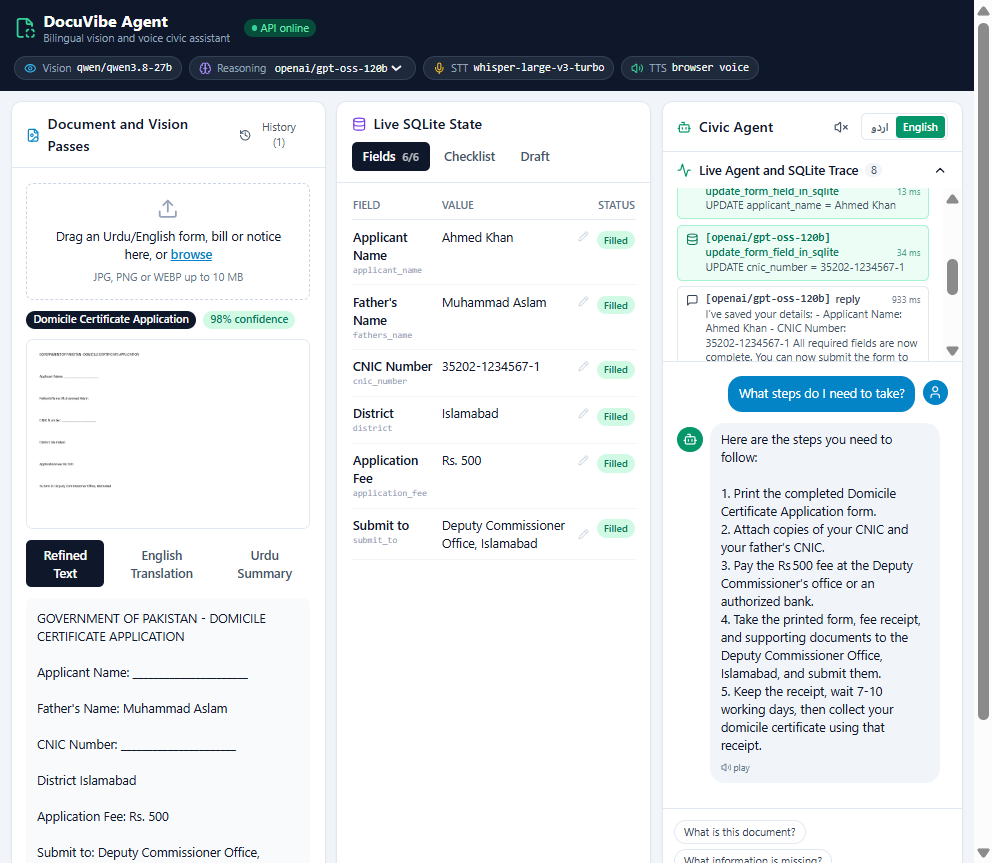
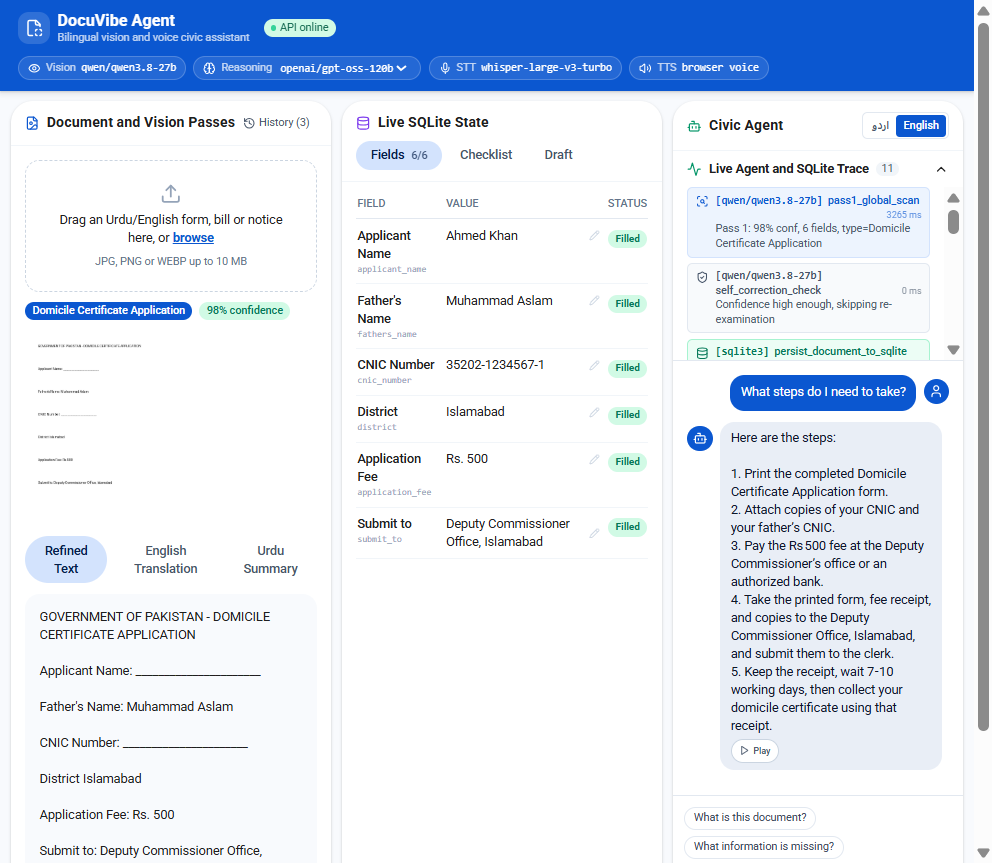
Material Design 3 theme: Roboto, primary app bar, elevated cards, pill tabs

diff --git a/frontend/src/components/DocumentViewer.tsx b/frontend/src/components/DocumentViewer.tsx
@@ -68,7 +68,7 @@ export default function DocumentViewer({ document, history, uploading, error, on
     <section className="panel overflow-hidden" aria-label="Document viewer">
       <div className="flex items-center justify-between border-b border-slate-200 px-4 py-3">
         <h2 className="flex items-center gap-2 font-semibold">
-          <FileImage className="h-4 w-4 text-sky-600" aria-hidden /> Document and Vision Passes
+          <FileImage className="h-4 w-4 text-primary" aria-hidden /> Document and Vision Passes
         </h2>
         <button
           type="button"
@@ -93,7 +93,7 @@ export default function DocumentViewer({ document, history, uploading, error, on
                     setShowHistory(false);
                   }}
                   className={`flex w-full items-center justify-between px-3 py-2 text-left hover:bg-slate-50 ${
-                    document?.id === h.id ? "bg-sky-50" : ""
+                    document?.id === h.id ? "bg-primary-container/40" : ""
                   }`}
                 >
                   <span className="truncate">
@@ -117,13 +117,13 @@ export default function DocumentViewer({ document, history, uploading, error, on
             setDragOver(false);
             if (!uploading) handleFiles(e.dataTransfer.files);
           }}
-          className={`flex flex-col items-center justify-center gap-2 rounded-lg border-2 border-dashed p-4 text-center transition ${
-            dragOver ? "border-sky-500 bg-sky-50" : "border-slate-300"
+          className={`flex flex-col items-center justify-center gap-2 rounded-2xl border-2 border-dashed p-6 text-center transition ${
+            dragOver ? "border-primary bg-primary-container/40" : "border-slate-300"
           }`}
         >
           {uploading ? (
             <>
-              <Loader2 className="h-6 w-6 animate-spin text-sky-600" aria-hidden />
+              <Loader2 className="h-6 w-6 animate-spin text-primary" aria-hidden />
               <p className="text-sm font-medium">Running multi-pass vision agent...</p>
               <p className="text-xs text-slate-500">Global scan, crop and re-examine, script repair, SQLite save</p>
             </>
@@ -132,7 +132,7 @@ export default function DocumentViewer({ document, history, uploading, error, on
               <Upload className="h-6 w-6 text-slate-400" aria-hidden />
               <p className="text-sm">
                 Drag an Urdu/English form, bill or notice here, or{" "}
-                <button type="button" onClick={() => inputRef.current?.click()} className="font-semibold text-sky-600 underline">
+                <button type="button" onClick={() => inputRef.current?.click()} className="font-semibold text-primary underline">
                   browse
                 </button>
               </p>
@@ -159,7 +159,7 @@ export default function DocumentViewer({ document, history, uploading, error, on
                 type="button"
                 disabled={uploading}
                 onClick={() => loadSample(s.src)}
-                className="inline-flex items-center gap-1 rounded-full border border-sky-200 bg-sky-50 px-3 py-1 text-xs font-medium text-sky-700 hover:bg-sky-100 disabled:opacity-50"
+                className="inline-flex items-center gap-1 rounded-full border border-primary-container bg-primary-container/40 px-3 py-1 text-xs font-medium text-primary hover:bg-primary-container disabled:opacity-50"
               >
                 <Sparkles className="h-3 w-3" /> {s.label}
               </button>
@@ -176,7 +176,7 @@ export default function DocumentViewer({ document, history, uploading, error, on
         {document ? (
           <>
             <div className="flex flex-wrap items-center gap-2 text-xs">
-              <span className="rounded-full bg-slate-900 px-2 py-0.5 font-medium text-white">{document.doc_type || "Document"}</span>
+              <span className="rounded-full bg-primary px-2 py-0.5 font-medium text-white">{document.doc_type || "Document"}</span>
               <span
                 className={`rounded-full px-2 py-0.5 font-medium ${
                   document.confidence_score >= 0.85
@@ -191,7 +191,7 @@ export default function DocumentViewer({ document, history, uploading, error, on
               {bbox && <span className="rounded-full bg-fuchsia-100 px-2 py-0.5 text-fuchsia-700">Pass 2 region [{bbox.join(", ")}]</span>}
             </div>
 
-            <div className="relative overflow-hidden rounded-lg border border-slate-200 bg-slate-50">
+            <div className="relative overflow-hidden rounded-2xl bg-surface-variant">
               {/* eslint-disable-next-line @next/next/no-img-element */}
               <img src={imageUrl(document.image_path)} alt={document.filename} className="block h-auto w-full" />
               {bbox && (
@@ -230,7 +230,7 @@ export default function DocumentViewer({ document, history, uploading, error, on
             </div>
             <div
               dir="auto"
-              className={`whitespace-pre-wrap rounded-lg bg-slate-50 p-3 text-sm ${isUrduScript ? "urdu text-base" : ""}`}
+              className={`whitespace-pre-wrap rounded-2xl bg-surface p-4 text-sm ${isUrduScript ? "urdu text-base" : ""}`}
             >
               {activeText || <span className="text-slate-400">Nothing extracted for this view.</span>}
             </div>

diff --git a/frontend/src/components/VoiceAgentChat.tsx b/frontend/src/components/VoiceAgentChat.tsx
@@ -101,7 +101,7 @@ export default function VoiceAgentChat({ hasDocument, messages, logs, language, 
                 role="radio"
                 aria-checked={language === l}
                 onClick={() => onLanguageChange(l)}
-                className={`rounded px-2 py-1 font-medium ${language === l ? "bg-emerald-600 text-white" : "text-slate-600 hover:bg-slate-100"}`}
+                className={`rounded px-2 py-1 font-medium ${language === l ? "bg-primary text-white" : "text-slate-600 hover:bg-slate-100"}`}
               >
                 {l === "ur" ? "اردو" : "English"}
               </button>
@@ -122,14 +122,14 @@ export default function VoiceAgentChat({ hasDocument, messages, logs, language, 
           const isUrdu = m.language === "ur";
           return (
             <div key={m.id} className={`flex gap-2 ${isUser ? "flex-row-reverse" : ""}`}>
-              <div className={`mt-1 flex h-7 w-7 shrink-0 items-center justify-center rounded-full ${isUser ? "bg-sky-600" : "bg-emerald-600"} text-white`}>
+              <div className={`mt-1 flex h-7 w-7 shrink-0 items-center justify-center rounded-full ${isUser ? "bg-primary" : "bg-primary"} text-white`}>
                 {isUser ? <User className="h-4 w-4" /> : <Bot className="h-4 w-4" />}
               </div>
-              <div className={`max-w-[85%] rounded-2xl px-3 py-2 text-sm ${isUser ? "bg-sky-600 text-white" : "bg-slate-100 text-slate-900"}`}>
+              <div className={`max-w-[85%] rounded-2xl px-3 py-2 text-sm ${isUser ? "bg-primary text-white" : "bg-surface-variant text-slate-900"}`}>
                 <p dir={isUrdu ? "rtl" : "ltr"} className={`whitespace-pre-wrap break-words ${isUrdu ? "font-urdu text-base leading-[2.1]" : ""}`}>
                   {m.content}
                 </p>
-                <div className={`mt-1 flex items-center gap-2 text-[10px] ${isUser ? "text-sky-100" : "text-slate-500"}`}>
+                <div className={`mt-1 flex items-center gap-2 text-[10px] ${isUser ? "text-white/80" : "text-slate-500"}`}>
                   {m.viaVoice && (
                     <span className="inline-flex items-center gap-0.5">
                       <Mic className="h-3 w-3" /> voice
@@ -202,7 +202,7 @@ export default function VoiceAgentChat({ hasDocument, messages, logs, language, 
               if (e.key === " " || e.key === "Enter") recorder.onPressEnd();
             }}
             className={`relative flex h-14 w-14 shrink-0 select-none items-center justify-center rounded-full text-white shadow-md transition disabled:cursor-not-allowed disabled:opacity-40 ${
-              recorder.isRecording ? "scale-110 bg-red-600" : "bg-emerald-600 hover:bg-emerald-700"
+              recorder.isRecording ? "scale-110 bg-red-600" : "bg-primary hover:bg-primary-dark"
             }`}
             aria-label={recorder.isRecording ? "Recording, release to send" : "Hold to talk"}
             title={recorder.isSupported ? "Hold to talk" : "Voice input not supported in this browser"}
@@ -230,13 +230,13 @@ export default function VoiceAgentChat({ hasDocument, messages, logs, language, 
               disabled={disabled}
               dir="auto"
               placeholder={recorder.isRecording ? "Listening..." : language === "ur" ? "اپنا پیغام لکھیں..." : "Type a message or hold the mic"}
-              className={`min-w-0 flex-1 rounded-full border border-slate-300 px-4 py-2.5 text-sm focus:border-emerald-500 focus:outline-none disabled:bg-slate-50 ${language === "ur" ? "font-urdu" : ""}`}
+              className={`min-w-0 flex-1 rounded-full border border-slate-300 px-4 py-2.5 text-sm focus:border-primary focus:ring-2 focus:ring-primary/20 focus:outline-none disabled:bg-slate-50 ${language === "ur" ? "font-urdu" : ""}`}
               aria-label="Message"
             />
             <button
               type="submit"
               disabled={disabled || !input.trim()}
-              className="flex h-10 w-10 shrink-0 items-center justify-center rounded-full bg-slate-900 text-white hover:bg-slate-800 disabled:opacity-40"
+              className="flex h-10 w-10 shrink-0 items-center justify-center rounded-full bg-primary text-white hover:bg-primary-dark disabled:opacity-40"
               aria-label="Send message"
             >
               <Send className="h-4 w-4" />

diff --git a/frontend/src/components/TopBar.tsx b/frontend/src/components/TopBar.tsx
@@ -1,4 +1,4 @@
-"use client";
+"use client";
 
 import { Brain, Eye, FileScan, Mic, Volume2 } from "lucide-react";
 
@@ -13,30 +13,32 @@ interface Props {
 
 function Badge({ icon, label, value }: { icon: React.ReactNode; label: string; value: string }) {
   return (
-    <span className="inline-flex items-center gap-1.5 rounded-full border border-slate-700 bg-slate-800 px-2.5 py-1 text-xs">
+    <span className="inline-flex items-center gap-1.5 rounded-full border border-white/20 bg-white/10 px-2.5 py-1 text-xs">
       {icon}
-      <span className="text-slate-400">{label}</span>
-      <span className="font-mono text-slate-100">{value}</span>
+      <span className="text-white/75">{label}</span>
+      <span className="font-mono text-white">{value}</span>
     </span>
   );
 }
 
 export default function TopBar({ visionModel, sttModel, reasoningModels, selectedModel, onModelChange, backendOnline }: Props) {
   return (
-    <header className="flex flex-wrap items-center justify-between gap-3 bg-slate-900 px-4 py-3 text-white">
+    <header className="sticky top-0 z-10 flex flex-wrap items-center justify-between gap-3 bg-primary px-5 py-3 text-white shadow-md2">
       <div className="flex items-center gap-2">
-        <FileScan className="h-6 w-6 text-emerald-400" aria-hidden />
+        <span className="flex h-9 w-9 items-center justify-center rounded-xl bg-white/15">
+          <FileScan className="h-5 w-5 text-white" aria-hidden />
+        </span>
         <div>
           <h1 className="text-lg font-bold leading-tight">DocuVibe Agent</h1>
-          <p className="text-xs text-slate-400">Bilingual vision and voice civic assistant</p>
+          <p className="text-xs text-white/75">Bilingual vision and voice civic assistant</p>
         </div>
         <span
           className={`ml-2 inline-flex items-center gap-1 rounded-full px-2 py-0.5 text-xs ${
             backendOnline === null
-              ? "bg-slate-700 text-slate-300"
+              ? "bg-white/15 text-white"
               : backendOnline
-                ? "bg-emerald-900 text-emerald-300"
-                : "bg-red-900 text-red-300"
+                ? "bg-emerald-100 text-emerald-800"
+                : "bg-red-100 text-red-800"
           }`}
         >
           <span
@@ -49,25 +51,25 @@ export default function TopBar({ visionModel, sttModel, reasoningModels, selecte
       </div>
 
       <div className="flex flex-wrap items-center gap-2">
-        <Badge icon={<Eye className="h-3.5 w-3.5 text-sky-400" />} label="Vision" value={visionModel} />
-        <label className="inline-flex items-center gap-1.5 rounded-full border border-slate-700 bg-slate-800 px-2.5 py-1 text-xs">
-          <Brain className="h-3.5 w-3.5 text-violet-400" aria-hidden />
-          <span className="text-slate-400">Reasoning</span>
+        <Badge icon={<Eye className="h-3.5 w-3.5 text-white" />} label="Vision" value={visionModel} />
+        <label className="inline-flex items-center gap-1.5 rounded-full border border-white/20 bg-white/10 px-2.5 py-1 text-xs">
+          <Brain className="h-3.5 w-3.5 text-white" aria-hidden />
+          <span className="text-white/75">Reasoning</span>
           <select
             value={selectedModel}
             onChange={(e) => onModelChange(e.target.value)}
-            className="cursor-pointer bg-transparent font-mono text-slate-100 outline-none"
+            className="cursor-pointer bg-transparent font-mono text-white outline-none"
             aria-label="Reasoning model"
           >
             {reasoningModels.map((m) => (
-              <option key={m} value={m} className="bg-slate-800">
+              <option key={m} value={m} className="bg-white text-slate-900">
                 {m}
               </option>
             ))}
           </select>
         </label>
-        <Badge icon={<Mic className="h-3.5 w-3.5 text-amber-400" />} label="STT" value={sttModel} />
-        <Badge icon={<Volume2 className="h-3.5 w-3.5 text-emerald-400" />} label="TTS" value="browser voice" />
+        <Badge icon={<Mic className="h-3.5 w-3.5 text-white" />} label="STT" value={sttModel} />
+        <Badge icon={<Volume2 className="h-3.5 w-3.5 text-white" />} label="TTS" value="browser voice" />
       </div>
     </header>
   );

diff --git a/frontend/src/components/SqliteStatePanel.tsx b/frontend/src/components/SqliteStatePanel.tsx
@@ -52,7 +52,7 @@ function FieldRow({ field, highlight, onSave }: { field: Field; highlight: boole
                 if (e.key === "Enter") save();
                 if (e.key === "Escape") setEditing(false);
               }}
-              className="w-full rounded border border-slate-300 px-2 py-1 text-sm focus:border-sky-500 focus:outline-none"
+              className="w-full rounded border border-slate-300 px-2 py-1 text-sm focus:border-primary focus:outline-none"
               aria-label={`Value for ${field.field_label}`}
             />
             <button type="button" onClick={save} disabled={saving} className="rounded p-1 text-emerald-600 hover:bg-emerald-50" aria-label="Save">
@@ -170,7 +170,7 @@ export default function SqliteStatePanel({ hasDocument, fields, actionItems, dra
                       type="checkbox"
                       checked={item.is_completed}
                       onChange={(e) => onToggleAction(item.id, e.target.checked)}
-                      className="mt-0.5 h-4 w-4 accent-emerald-600"
+                      className="mt-0.5 h-4 w-4 accent-[#0B57D0]"
                     />
                     <span dir="auto" className={`text-sm ${item.is_completed ? "text-slate-400 line-through" : ""}`}>
                       <span className="mr-1 font-semibold">{item.step_number}.</span>
@@ -188,7 +188,7 @@ export default function SqliteStatePanel({ hasDocument, fields, actionItems, dra
               <button
                 type="button"
                 onClick={() => window.print()}
-                className="inline-flex items-center gap-1 rounded-md bg-slate-900 px-3 py-1.5 text-sm font-medium text-white hover:bg-slate-800"
+                className="inline-flex items-center gap-1 rounded-md bg-primary px-3 py-1.5 text-sm font-medium text-white hover:bg-primary-dark"
               >
                 <Printer className="h-4 w-4" /> Print
               </button>

diff --git a/frontend/src/app/globals.css b/frontend/src/app/globals.css
@@ -4,13 +4,19 @@
 
 @layer components {
   .panel {
-    @apply flex min-h-0 flex-1 flex-col rounded-xl border border-slate-200 bg-white shadow-sm;
+    @apply flex min-h-0 flex-1 flex-col rounded-3xl bg-white shadow-md1 transition-shadow hover:shadow-md2;
+  }
+  .panel > div:first-child {
+    @apply border-slate-100;
   }
   .tab {
-    @apply rounded-md px-3 py-1.5 text-sm font-medium text-slate-600 transition hover:bg-slate-100;
+    @apply rounded-full px-4 py-1.5 text-sm font-medium text-slate-600 transition-colors hover:bg-primary/10 focus-visible:outline-none focus-visible:ring-2 focus-visible:ring-primary/40;
   }
   .tab-active {
-    @apply bg-slate-900 text-white hover:bg-slate-800;
+    @apply bg-primary-container text-primary-on hover:bg-primary-container;
+  }
+  .font-mono {
+    font-family: "Roboto Mono", ui-monospace, monospace;
   }
   .urdu {
     @apply font-urdu leading-[2.2];

diff --git a/frontend/tailwind.config.ts b/frontend/tailwind.config.ts
@@ -4,8 +4,25 @@ const config: Config = {
   content: ["./src/**/*.{ts,tsx}"],
   theme: {
     extend: {
+      colors: {
+        primary: {
+          DEFAULT: "#0B57D0",
+          dark: "#0842A0",
+          container: "#D3E3FD",
+          on: "#041E49",
+        },
+        surface: {
+          DEFAULT: "#F8FAFD",
+          variant: "#E9EEF6",
+        },
+      },
       fontFamily: {
+        sans: ["Roboto", "system-ui", "Segoe UI", "Arial", "sans-serif"],
         urdu: ['"Noto Nastaliq Urdu"', '"Jameel Noori Nastaleeq"', "serif"],
+      },
+      boxShadow: {
+        md1: "0 1px 2px rgba(0,0,0,0.12), 0 1px 3px 1px rgba(0,0,0,0.06)",
+        md2: "0 1px 2px rgba(0,0,0,0.14), 0 2px 6px 2px rgba(0,0,0,0.08)",
       },
       keyframes: {
         wave: {

diff --git a/frontend/src/app/layout.tsx b/frontend/src/app/layout.tsx
@@ -14,10 +14,10 @@ export default function RootLayout({ children }: { children: React.ReactNode }) 
         <link rel="preconnect" href="https://fonts.gstatic.com" crossOrigin="anonymous" />
         <link
           rel="stylesheet"
-          href="https://fonts.googleapis.com/css2?family=Noto+Nastaliq+Urdu:wght@400;600&display=swap"
+          href="https://fonts.googleapis.com/css2?family=Noto+Nastaliq+Urdu:wght@400;600&family=Roboto:wght@400;500;700&family=Roboto+Mono:wght@400;500&display=swap"
         />
       </head>
-      <body className="bg-slate-100 text-slate-900 antialiased">{children}</body>
+      <body className="bg-surface font-sans text-[#1F1F1F] antialiased">{children}</body>
     </html>
   );
 }

diff --git a/frontend/src/components/AgentTraceLog.tsx b/frontend/src/components/AgentTraceLog.tsx
@@ -20,7 +20,7 @@ import {
 import type { AgentLog } from "@/lib/types";
 
 const TOOL_META: Record<string, { icon: LucideIcon; color: string }> = {
-  pass1_global_scan: { icon: ScanSearch, color: "text-sky-600 bg-sky-50 border-sky-200" },
+  pass1_global_scan: { icon: ScanSearch, color: "text-primary bg-primary-container/40 border-primary-container" },
   self_correction_check: { icon: ShieldCheck, color: "text-slate-600 bg-slate-50 border-slate-200" },
   crop_and_reexamine_region: { icon: Crop, color: "text-fuchsia-600 bg-fuchsia-50 border-fuchsia-200" },
   verify_and_repair_script: { icon: Wand2, color: "text-violet-600 bg-violet-50 border-violet-200" },
